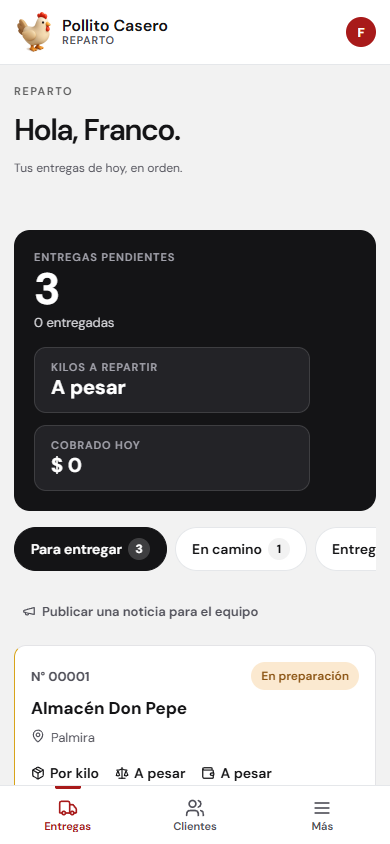
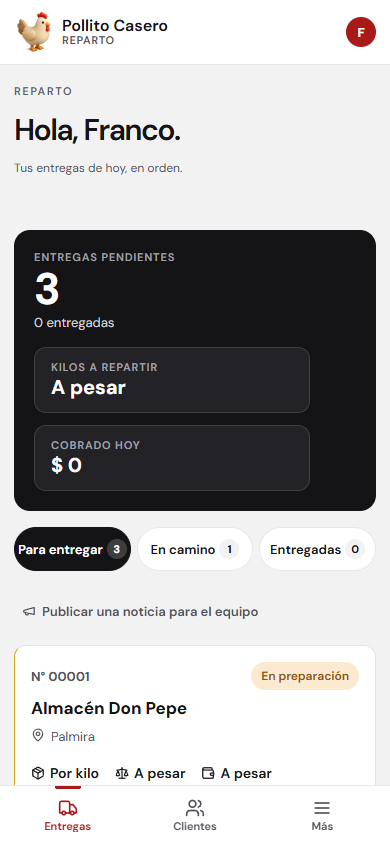
fix(app): sin 404 al abrir, filtros de entregas enteros y más fluidez en el celular
- Al abrir la app instalada se entra por /: el equipo ahora va directo a su pantalla
  apenas se conoce la sesión, sin esperar la lista completa de pedidos (antes se veía
  «Por acá no era» mientras bajaban los datos).
- Mis entregas: los tres filtros entran en pantallas de 360 px.
- Fluidez: sin desenfoques de fondo, listas largas que dibujan solo lo visible,
  toques sin demora y apertura con la copia local si la red tarda más de 3 s.

diff --git a/src/styles-rediseno.css b/src/styles-rediseno.css
@@ -1072,3 +1072,75 @@ table.gc-customers,
 table.orders-list {
   margin: 0;
 }
+
+/* ===================================================================
+   12. Filtros de Mis entregas: los tres entran siempre, sin cortarse
+   =================================================================== */
+.pill-filters {
+  display: grid;
+  /* Cada filtro toma lo que necesita su texto y el sobrante se reparte: entran los tres. */
+  grid-template-columns: repeat(3, auto);
+  gap: 6px;
+  overflow: visible;
+}
+.pill-filters .pill {
+  min-width: 0;
+  justify-content: center;
+  gap: 6px;
+  padding: 0 8px;
+  font-size: 14px;
+  white-space: nowrap;
+}
+@media (max-width: 400px) {
+  .pill-filters .pill {
+    font-size: 13px;
+    padding: 0 4px;
+    gap: 4px;
+  }
+  .pill-filters .pill span {
+    min-width: 20px;
+    height: 20px;
+    padding: 0 5px;
+    font-size: 11px;
+  }
+}
+
+/* ===================================================================
+   13. Fluidez en el teléfono
+   =================================================================== */
+/* El desenfoque de fondo (vidrio) es lo más caro de dibujar al desplazarse: todo sólido. */
+.glass,
+.glass-dark,
+.app-head,
+.tabbar,
+.staff-bar,
+.more-sheet {
+  -webkit-backdrop-filter: none !important;
+  backdrop-filter: none !important;
+}
+.glass {
+  background: #fff;
+}
+.glass-dark {
+  background: var(--c-dark);
+}
+dialog::backdrop {
+  -webkit-backdrop-filter: none;
+  backdrop-filter: none;
+  background: #14141666;
+}
+/* Listas largas: el navegador solo dibuja las tarjetas que están en pantalla. */
+.delivery-card,
+.customer-card {
+  content-visibility: auto;
+  contain-intrinsic-size: auto 200px;
+}
+/* La barra inferior se mueve sin recalcular la página. */
+.tabbar {
+  will-change: transform;
+}
+/* Toques instantáneos: sin demora de doble toque ni resaltado gris. */
+html {
+  -webkit-tap-highlight-color: transparent;
+  touch-action: manipulation;
+}

diff --git a/src/App.jsx b/src/App.jsx
@@ -650,6 +650,10 @@ function StaffShell({ Page, path }) {
             <Suspense fallback={<Loading />}>
               <Page />
             </Suspense>
+          ) : path in CLIENT_ROUTES ? (
+            // Ruta de clientes ("/" al abrir la app): la redirección a la pantalla del equipo
+            // está en curso; mostrar "no encontrada" acá era un falso aviso.
+            <Loading />
           ) : (
             <NotFound />
           )}
@@ -712,7 +716,9 @@ export default function App() {
 
   // Redirecciones por rol: nadie llega a una pantalla que no le corresponde.
   useEffect(() => {
-    if (!loaded) return;
+    // El equipo ya se conoce por su sesión: se lo lleva a su pantalla en el acto, sin esperar
+    // a que termine de bajar la lista de pedidos (al abrir la app instalada se entra por "/").
+    if (!loaded && !staff) return;
     const inClient = path in CLIENT_ROUTES;
     const inAdmin = path in ADMIN_ROUTES;
     const inDriver = path in DRIVER_ROUTES;
@@ -737,7 +743,7 @@ export default function App() {
         "/ingresar?volver=" + encodeURIComponent(path + location.search),
         { replace: true },
       );
-  }, [path, role, loaded, teamOnly]);
+  }, [path, role, loaded, teamOnly, staff]);
 
   if (!loaded && !session) return <div className="loading">Preparando…</div>;
   const chrome = (

diff --git a/public/sw.js b/public/sw.js
@@ -139,7 +139,22 @@ self.addEventListener("fetch", (event) => {
     return;
   }
   if (event.request.mode === "navigate") {
-    event.respondWith(fetch(event.request).catch(() => caches.match("/")));
+    // Abrir la app: la página de la red si llega en 3 s; si la señal es mala, la copia del
+    // teléfono (misma versión que este service worker), así abre siempre al mismo ritmo.
+    event.respondWith(
+      (async () => {
+        const red = fetch(event.request);
+        red.catch(() => {}); // si gana la copia, un fallo tardío de la red no queda suelto
+        const copia = await caches.match("/");
+        if (!copia) return red;
+        const espera = new Promise((resolve) => setTimeout(resolve, 3000, null));
+        try {
+          return (await Promise.race([red, espera])) || copia;
+        } catch {
+          return copia;
+        }
+      })(),
+    );
     return;
   }
   if (/\.(js|css|png|webp|svg|woff2?)$/.test(url.pathname)) {
